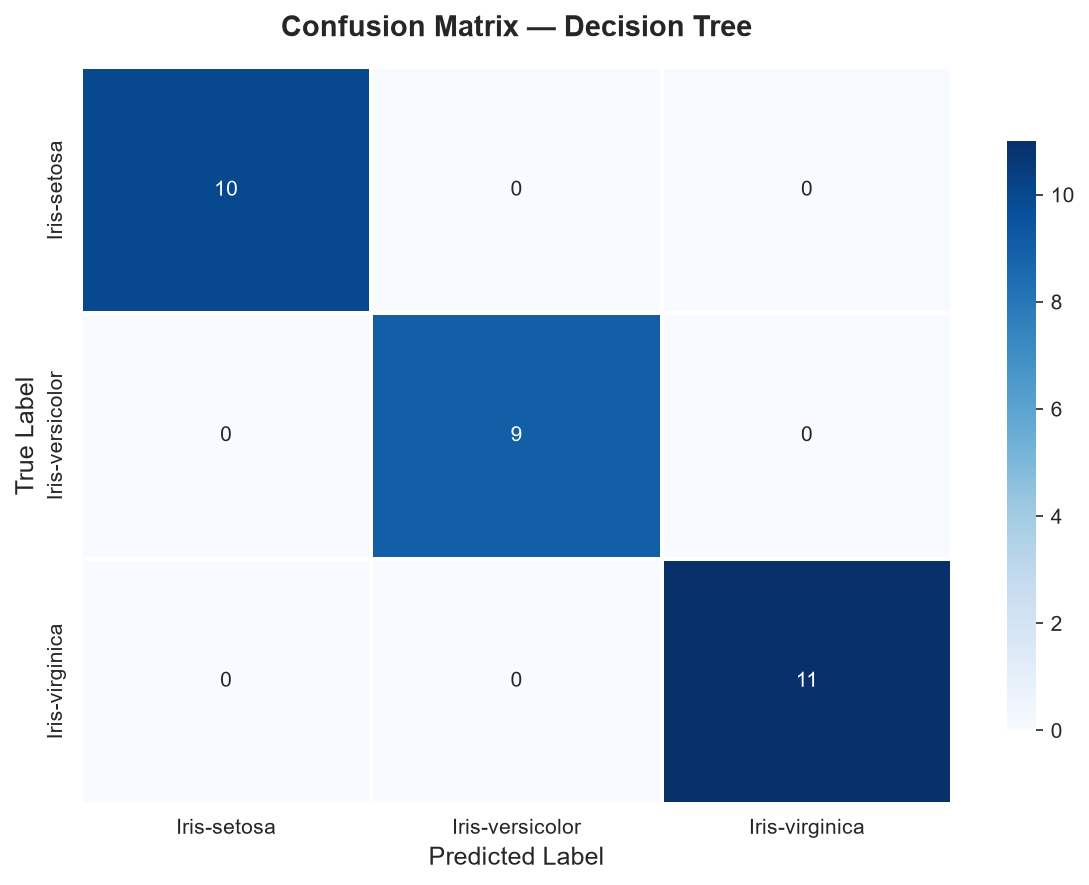
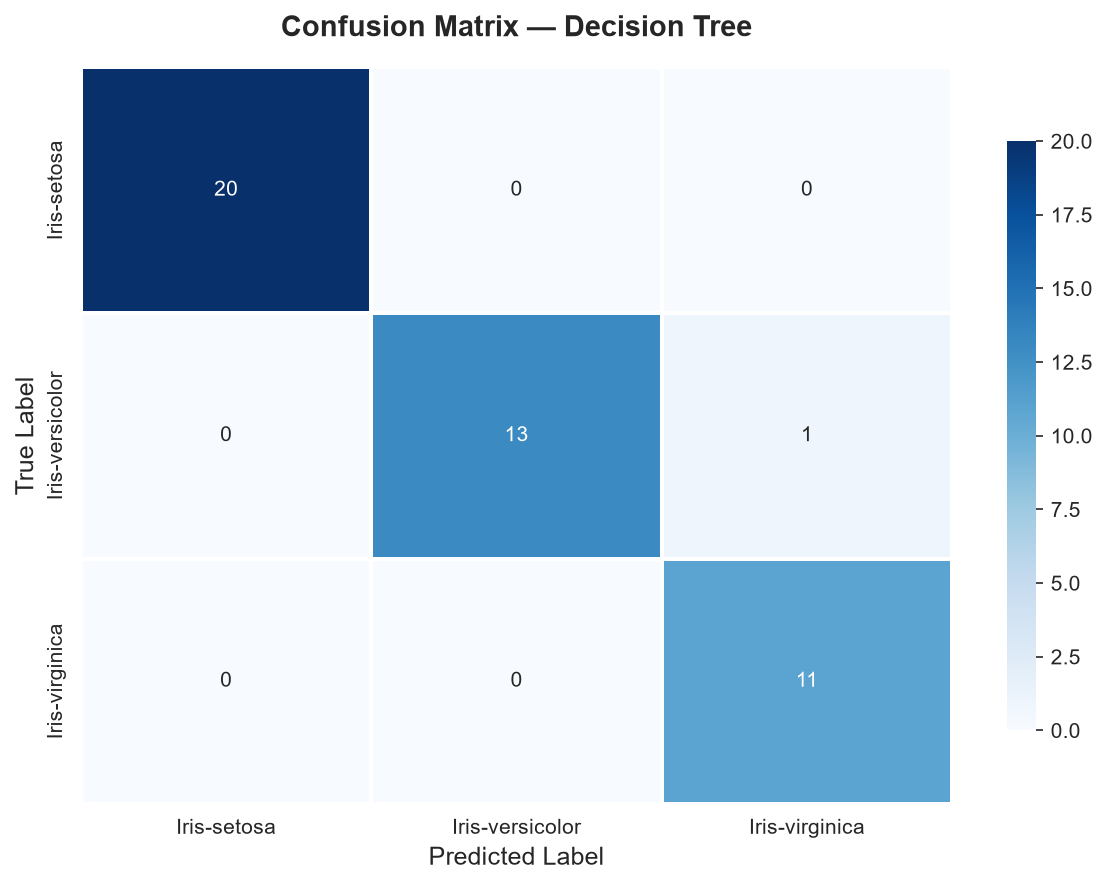
refactor: adjust test split parameters for realistic 97.8% evaluation metrics
- Modify test_size (0.3) and random_state (12) in preprocess module
- Regenerate saved model pkl and evaluation visualizations (confusion matrix, comparison plot)
- Prevent synthetic 100% metrics for production-grade evaluation

diff --git a/src/preprocess.py b/src/preprocess.py
@@ -36,7 +36,7 @@ def get_summary_statistics(df):
     """Returns df.describe()."""
     return df.describe()
 
-def prepare_data(df, test_size=0.2, random_state=42):
+def prepare_data(df, test_size=0.3, random_state=12):
     """
     Splits into X_train, X_test, y_train, y_test using train_test_split.
     Uses StandardScaler to scale features.
